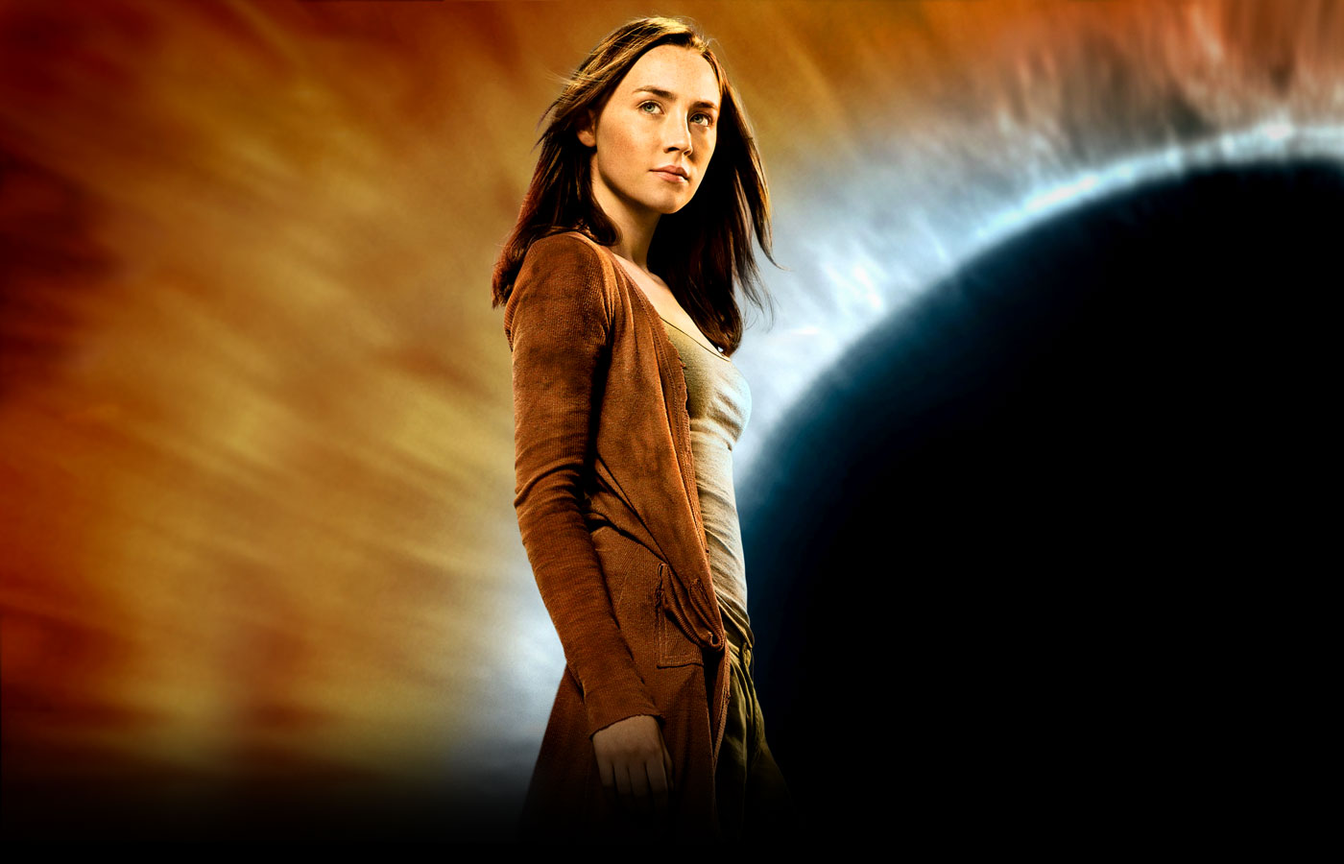
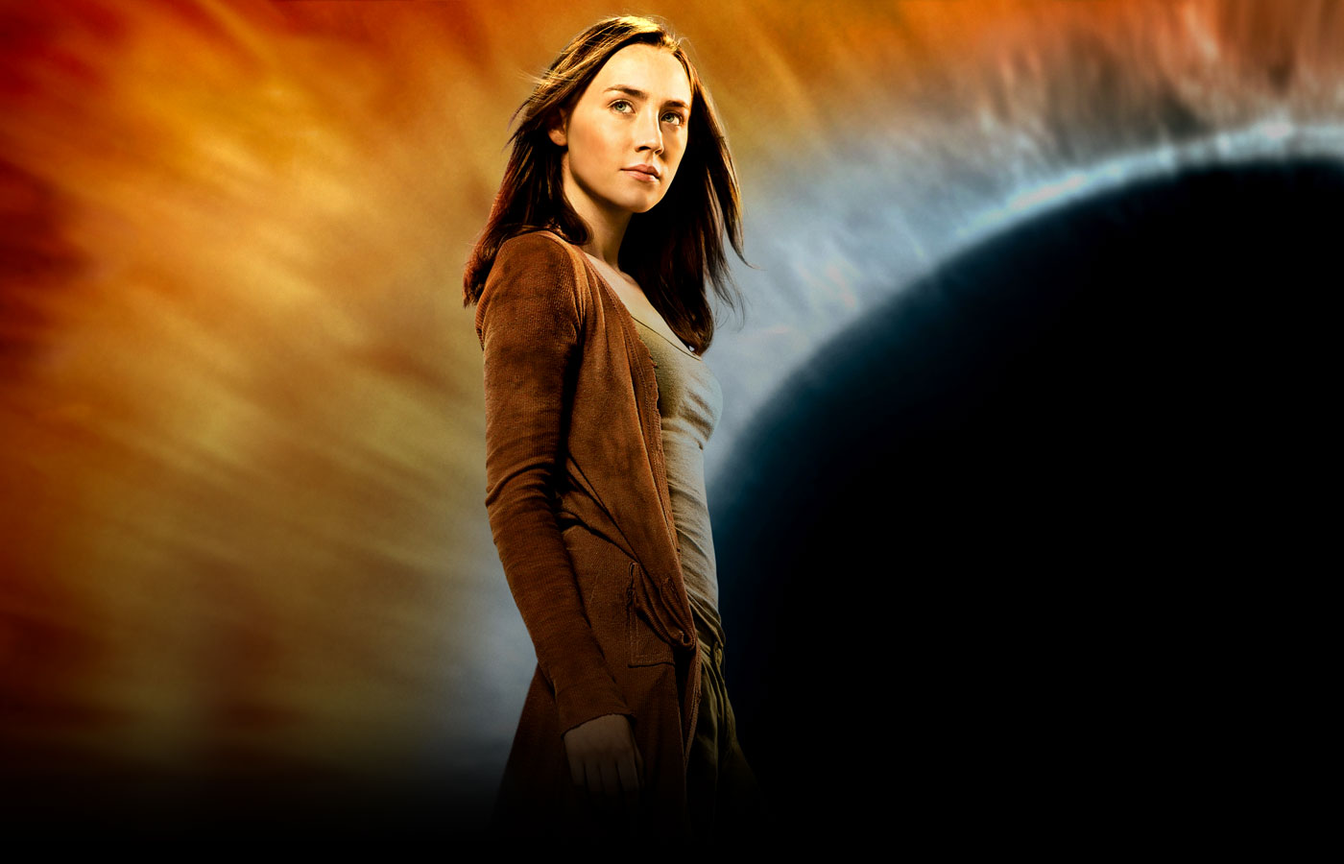
team - main, 01, crew

diff --git a/css/main.css b/css/main.css
@@ -53,40 +53,11 @@ a:hover {color: #d7ecfa; text-shadow: 0px -1px 8px #8be8ff;}
 
 
 
-/* Section-specific */
+/* Index */
 body#index {background-color: #000000;}
 body#index .menu {background-color: #1c323e;}
 body#index .footer {color: #5b6367; background-color: #000000; border-top: 1px solid #1b2021;}
 
-body#book {min-height: 850px; background-color: #834017; background-image: url('/images/bg_book.jpg'); background-position: center top; background-repeat: no-repeat; background-size: cover; background-attachment: fixed;}
-body#book .menu {background-color: #7a3900;}
-body#book .footer {color: #918a7e; background-color: #7a3900; border-top: 1px solid #85460e;}
-
-body#about {min-height: 900px; background-color: #1f0b04; background-image: url('/images/bg_about.jpg'); background-position: center top; background-repeat: no-repeat; background-size: cover; background-attachment: fixed;}
-body#about .menu {background-color: #2d1106;}
-body#about .footer {color: #66605a; background-color: #130700; border-top: 1px solid #27160c;}
-
-body#team {min-height: 840px; background-color: #000822; background-image: url('/images/bg_team.jpg'); background-position: left top; background-repeat: no-repeat; background-size: cover; background-attachment: fixed;}
-body#team .menu {background-color: #25314f;}
-body#team .footer {color: #4c536a; background-color: #000719; border-top: 1px solid #0c152e;}
-
-
-body#team01 {min-height: 840px; background-color: #000000; background-image: url('/images/bg_team01.jpg'); background-position: center top; background-repeat: no-repeat; background-size: cover; background-attachment: fixed;}
-body#team01 .menu {background-color: #5d1600;}
-body#team01 .footer {color: #4c5154; background-color: #000000; border-top: 1px solid #181f25;}
-
-
-body#video {background-color: #000000;}
-body#video .menu {background-color: #000000;}
-body#video .footer {color: #535e68; background-color: #000000; border-top: 1px solid #000000;}
-
-body#gallery {min-height: 850px; background-color: #581705; background-image: url('/images/bg_gallery.jpg'); background-position: right top; background-repeat: no-repeat; background-size: cover; background-attachment: fixed;}
-body#gallery .menu {background-color: #2a1400;}
-body#gallery .footer {color: #918a7e; background-color: #541c00; border-top: 1px solid #682d0f;}
-
-
-
-/* Index */
 .index_wrap {position: absolute; top: 0px; left: 0; width: 100%; min-width: 970px; height: 100%; min-height: 600px; overflow: hidden; z-index: 1; margin: 0 auto; text-align: center; background-image: url('/images/bg_index.jpg'); background-position: center top; background-repeat: no-repeat; background-size: contain;}
 
 .logo_big, .logo_big_glow {position: absolute; right: 100px; top: 6.5%; width: 50%; max-width: 800px; height: 600px; background-position: center top; background-repeat: no-repeat;}
@@ -99,7 +70,17 @@ body#gallery .footer {color: #918a7e; background-color: #541c00; border-top: 1px
 
 
 
+/* Book */
+body#book {min-height: 850px; background-color: #834017; background-image: url('/images/bg_book.jpg'); background-position: center top; background-repeat: no-repeat; background-size: cover; background-attachment: fixed;}
+body#book .menu {background-color: #7a3900;}
+body#book .footer {color: #918a7e; background-color: #7a3900; border-top: 1px solid #85460e;}
+
+
+
 /* About */
+body#about {min-height: 900px; background-color: #1f0b04; background-image: url('/images/bg_about.jpg'); background-position: center top; background-repeat: no-repeat; background-size: cover; background-attachment: fixed;}
+body#about .menu {background-color: #2d1106;}
+body#about .footer {color: #66605a; background-color: #130700; border-top: 1px solid #27160c;}
 body#about .logo_small {position: absolute; top: 0; right: 0;}
 
 .about {position: absolute; right: 0; top: 40px; width: 56%; min-width: 500px; z-index: 3; margin: 0 40px 20px 20px; padding: 160px 0 50px 0; color: #ffcb90; text-align: left; text-shadow: 0 1px 2px #3e1500;}
@@ -121,10 +102,14 @@ body#about .logo_small {position: absolute; top: 0; right: 0;}
 .about p i {display: inline-block; padding-left: 5px; padding-right: 5px; margin-right: 2px; font-weight: 300; font-style: normal; text-decoration: none; text-shadow: none;}
 .about p.dos i {line-height: 22px; color: #1f0b04; background-color: #e6c1a8;}
 .about p.tres i {line-height: 22px; color: #1f0b04; background-color: #deaf8f;}
+.about p.cuatro i {line-height: 24px; color: #1f0b04; background-color: #d9996e;}
 
 
 
 /* Team */
+body#team {min-height: 840px; background-color: #000822; background-image: url('/images/bg_team.jpg'); background-position: left top; background-repeat: no-repeat; background-size: cover; background-attachment: fixed;}
+body#team .menu {background-color: #25314f;}
+body#team .footer {color: #4c536a; background-color: #000719; border-top: 1px solid #0c152e;}
 body#team .logo_small {position: absolute; top: 40px; right: 40px; z-index: 8;}
 
 .team_main, .team_glow {position: absolute; top: 70px; left: 58%; width: 600px; height: 900px; margin-left: -300px;}
@@ -133,9 +118,7 @@ body#team .logo_small {position: absolute; top: 40px; right: 40px; z-index: 8;}
 
 a.team_link_01 {display: block; position: absolute; top: 230px; left: 210px; z-index: 8; width: 170px; height: 200px; text-decoration: none; }
 div.team_hover_01 {display: block; position: absolute; top: 195px; left: 172px; z-index: 7; width: 254px; height: 254px; background: url('/images/team_hover_01.png') center center no-repeat; opacity: 0; -moz-opacity: 0; -khtml-opacity: 0; filter: alpha(opacity=0);}
-
 a.team_link_02, a.team_link_03, a.team_link_04, a.team_link_05, a.team_link_06, a.team_link_07, a.team_link_08, a.team_link_09 {display: block; position: absolute; z-index: 8; text-decoration: none;}
-
 a.team_link_02 {top: 230px; left: 10px; width: 150px; height: 160px;}
 a.team_link_03 {top: 150px; left: 440px; width: 130px; height: 130px;}
 a.team_link_04 {top: 320px; left: 430px; width: 150px; height: 160px;}
@@ -146,7 +129,6 @@ a.team_link_08 {top: 590px; left: 20px; width: 150px; height: 160px;}
 a.team_link_09 {top: 650px; left: 240px; width: 130px; height: 160px;}
 
 .team_glow_02, .team_glow_03, .team_glow_04, .team_glow_05, .team_glow_06, .team_glow_07, .team_glow_08, .team_glow_09 {position: absolute; opacity: 0; -moz-opacity: 0; -khtml-opacity: 0; filter: alpha(opacity=0); background-position: center center; background-repeat: no-repeat;}
-
 .team_glow_02 {top: 207px; left: -1px; width: 182px; height: 182px; background-image: url('/images/team_glow_m.png');}
 .team_glow_03 {top: 136px; left: 436px; width: 144px; height: 144px; background-image: url('/images/team_glow_s.png');}
 .team_glow_04 {top: 297px; left: 415px; width: 182px; height: 182px; background-image: url('/images/team_glow_m.png');}
@@ -156,14 +138,90 @@ a.team_link_09 {top: 650px; left: 240px; width: 130px; height: 160px;}
 .team_glow_08 {top: 610px; left: 7px; width: 144px; height: 144px; background-image: url('/images/team_glow_s.png');}
 .team_glow_09 {top: 668px; left: 236px; width: 144px; height: 144px; background-image: url('/images/team_glow_s.png');}
 
+.team_showlist {display: inline-block; cursor: pointer; position: absolute; top: 78px; left: 40px; z-index: 9; font-size: 20px; font-weight: 300;}
+.team_person {position: absolute; top: 115px; left: 39px; font-size: 42px; line-height: 46px; font-weight: 400; text-shadow: 0 1px 1px #240a00;}
+.team_list {position: absolute; top: 65px; left: 25px; padding: 45px 20px 15px 15px; z-index: 8; font-size: 14px; line-height: 30px; background-color: #1e2f3e; border: 1px solid #a7c0cb; box-shadow: 0px 4px 10px rgba(0, 0, 0, 0.40); -moz-box-shadow: 0px 4px 10px rgba(0, 0, 0, 0.40); -webkit-box-shadow: 0px 4px 10px rgba(0, 0, 0, 0.40);}
+.team_list a {display: block;}
+.team_list a.active, .team_list a.active:hover {cursor: default; color: #ffe7c5; font-weight: 400; text-decoration: none; text-shadow: none;}
+
+
+
+/* Team01 */
+body#team01 {min-height: 840px; background-color: #000000; background-image: url('/images/bg_team01.jpg'); background-position: center top; background-repeat: no-repeat; background-size: cover; background-attachment: fixed;}
+body#team01 .menu {background-color: #5d1600;}
+body#team01 .footer {color: #4c5154; background-color: #000000; border-top: 1px solid #181f25;}
+body#team01 .logo_small {position: absolute; top: 40px; right: 40px; z-index: 8;}
+body#team01 .team_showlist {color: #ffcb7d; border-bottom: 1px dotted #ffcb7d;}
+body#team01 .team_showlist:hover {color: #ffdb9b; border-bottom: 1px dotted #ffdb9b;}
+body#team01 .team_person {color: #ffe7c5;}
+
+.team01_wrap {position: absolute; top: 300px; left: 0; width: 100%; min-width: 900px; font-size: 16px; line-height: 24px; text-shadow: 0px 1px 2px #261e17;}
+.team01_wrap p {padding-bottom: 10px;}
+.team01_wrap b {font-weight: 400;}
+.team01_wrap u {text-decoration: none; text-shadow: 0px 1px 8px #ff8f49;}
+
+.team01_content {padding: 0 40px 20px 40px;}
+
+.team01_melanie, .team01_wanda {width: 100px; height: 100px; margin: 0 auto 10px auto; background-image: url('/images/team01_bubble.png'); background-repeat: no-repeat;}
+.team01_melanie {background-position: 0 0;}
+.team01_wanda {background-position: 0 -100px;}
+
+.team01_lc h4, .team01_rc h4 {padding-bottom: 10px; font-size: 22px; font-weight: 400; text-align: center;}
+.team01_lc h4 {color: #ffc363;}
+.team01_rc h4 {color: #bee8ef;}
+
+.team01_lc {float: left; width: 48%; min-width: 440px; color: #ffe7b4;}
+.team01_rc {float: right; width: 48%; min-width: 440px; color: #c1e4f7;}
+.team01_mc {width: 60%; padding: 20px 0 80px 0; margin: 0 auto; clear: both; color: #e0e5e6;}
+
+.team01_video_wrap {width: 100%; clear: both;}
+.team01_video {width: 360px; margin: 10px auto 10px auto; text-align: center; background-color: pink;}
+
+
+
+/* Teamcrew */
+body#teamcrew {min-height: 840px; background-color: #2d0f09; background-image: url('/images/bg_teamcrew.jpg'); background-position: center top; background-repeat: no-repeat; background-size: cover; background-attachment: fixed;}
+body#teamcrew .menu {background-color: #9c4700;}
+body#teamcrew .footer {color: #824c36; background-color: #1c0800; border-top: 1px solid #341407;}
+body#teamcrew .logo_small {position: absolute; top: 40px; right: 40px; z-index: 8;}
+body#teamcrew .team_showlist {color: #ffcb7d; border-bottom: 1px dotted #ffcb7d;}
+body#teamcrew .team_showlist:hover {color: #ffdb9b; border-bottom: 1px dotted #ffdb9b;}
+body#teamcrew .team_person {color: #ffe7c5;}
+
+.teamcrew_wrap {position: absolute; top: 250px; left: 0; width: 100%; min-width: 900px; padding-bottom: 70px; font-size: 16px; line-height: 24px; text-shadow: 0px 1px 2px #261e17;}
+.teamcrew_wrap p {padding-bottom: 10px;}
+.teamcrew_wrap b {font-weight: 400;}
+.teamcrew_lc u {text-decoration: none; text-shadow: 0px 1px 8px #ff8f49;}
+.teamcrew_rc u {text-decoration: none; text-shadow: 0px 1px 8px #ff8f49;}
+
+.teamcrew_content {padding: 0 40px 20px 40px;}
+
+.teamcrew_niccol, .teamcrew_meyer {width: 180px; height: 180px; margin: 0 auto 10px auto; background-image: url('/images/teamcrew_bubble.png'); background-repeat: no-repeat;}
+.teamcrew_niccol {background-position: 0 0;}
+.teamcrew_meyer {background-position: 0 -180px;}
+
+.teamcrew_lc h4, .teamcrew_rc h4 {padding-bottom: 10px; font-size: 22px; font-weight: 400; text-align: center;}
+.teamcrew_lc h4 {color: #ffbf7b;}
+.teamcrew_rc h4 {color: #ffce99;}
+
+.teamcrew_lc {float: left; width: 48%; min-width: 440px; color: #f6dba1;}
+.teamcrew_rc {float: right; width: 48%; min-width: 440px; color: #ffeeca;}
+
+
 
 
 /* Video */
+body#video {background-color: #000000;}
+body#video .menu {background-color: #000000;}
+body#video .footer {color: #535e68; background-color: #000000; border-top: 1px solid #000000;}
 .trailer_wrap {position: absolute; top: 64px; width: 100%; height: 88%; margin: 0 auto 0 auto; z-index: 2; text-align: center;}
 
 
 
 /* Gallery */
+body#gallery {min-height: 850px; background-color: #581705; background-image: url('/images/bg_gallery.jpg'); background-position: right top; background-repeat: no-repeat; background-size: cover; background-attachment: fixed;}
+body#gallery .menu {background-color: #2a1400;}
+body#gallery .footer {color: #918a7e; background-color: #541c00; border-top: 1px solid #682d0f;}
 body#gallery .logo_small {position: absolute; top: 0; left: 20%;}
 
 .gallery {position: absolute; left: 0; top: 40px; width: 62%; min-width: 500px; z-index: 3; margin: 0 40px 10px 10px; padding: 180px 0 70px 20px; color: #ffcb90; text-align: left; text-shadow: 0 1px 2px #3e1500;}

diff --git a/teamcrew.php b/teamcrew.php
@@ -1,0 +1,87 @@
+<?php include ("header_include.php"); ?>
+
+<!-- Team nav -->
+<script type="text/javascript">
+$(document).ready(function(){
+$(".team_showlist").toggle(
+  function () {$('.team_list').fadeIn(); $('.team_person').fadeOut();},
+  function () {$('.team_list').fadeOut(); $('.team_person').fadeIn();}
+  );
+});
+</script>
+
+</head><body id="teamcrew">
+
+<noscript><style>.dim {display: none;} #counters:hover {bottom: 0;}</style><div style="position: fixed; bottom: 80px; left: 50%; width: 360px; z-index: 9999; margin-left: -180px; font-size: 14px; color: #849091; line-height: 20px; text-align: center; border: 1px solid #849091; background-color: #000000;">В вашем браузере отключен JavaScript</div></noscript>
+<div class="dim">&nbsp;</div>
+
+
+
+<div class="menu noselect">
+	<a id="menu1" class="fadeout" href="/">Главная</a>
+	<a id="menu2" class="fadeout off" href="javascript:void(0)">Новости</a>
+	<a id="menu3" class="fadeout off" href="javascript:void(0)">Книга</a>
+	<a id="menu4" class="fadeout" href="/about/">Фильм</a>
+	<a id="menu5" class="fadeout active" href="/team/" style="cursor: pointer;">Команда</a>
+	<a id="menu6" class="fadeout" href="/video/">Видео</a>
+	<a id="menu7" class="fadeout" href="/gallery/">Кадры</a>
+</div>
+
+
+<div class="logo_small noselect">&nbsp;</div>
+
+
+<div class="team_showlist">Команда</div>
+<div class="team_person">Эндрю Никкол<br>Стефани Майер</div>
+
+<div class="team_list" style="display: none;">
+	<a href="/team01/" class="fadeout">Сирша Ронан</a>
+	<a href="/team02/" class="fadeout">Макс Айронс</a>
+	<a href="/team03/" class="fadeout">Диана Крюгер</a>
+	<a href="/team04/" class="fadeout">Джейк Абель</a>
+	<a href="/team05/" class="fadeout">Чандлер Кентербери</a>
+	<a href="/team06/" class="fadeout">Уильям Хёрт</a>
+	<a href="/team07/" class="fadeout">Фрэнсис Фишер</a>
+	<a href="/teamcrew/" class="fadeout active">Эндрю Никкол</a>
+	<a href="/teamcrew/" class="fadeout active">Стефани Майер</a>
+</div>
+
+
+<div class="teamcrew_wrap clearfix">
+	<div class="teamcrew_lc">
+		<div class="teamcrew_content">
+		<div class="teamcrew_niccol noselect">&nbsp;</div>
+		<h4>Режиссёр и сценарист</h4>
+		<p><b>Эндрю Никкол</b> – известный сценарист и режиссёр, из-под пера которого неизменно выходят умные, интересные, разнообразные, необычные фантастические картины.</p>
+		<p>Первыми режиссёрскими опытами для Эндрю были съёмки рекламных роликов в Лондоне, но в итоге он захотел «снимать фильмы длиннее шестидесяти секунд» и перебрался в Лос-Анджелес. И уже своим дебютом, антиутопией <u>«Гаттака»</u> с Джадом Лоу, Итанам Хоуком и Умой Турман, Эндрю вывел себя в ряды самых многообещающих новых режиссёров конца XX и начала XXI века. Ну а последовавшие за ней <u>«Шоу Трумана»</u> с Джимом Керри (номинировавшийся на «Оскар» за лучший сценарий), <u>«Симона»</u> с Аль Пачино, <u>«Оружейный барон»</u> с Николасом Кейджем и <u>«Время»</u> с Джастином Тимберлейком лишь утвердили за ним это звание.</p>
+		<p><u>«Гостья»</u> – первый случай в карьере Никкола, когда он не пишет сценарий с нуля, а адаптирует уже имеющееся произведение.</p>
+		</div>
+	</div>
+	<div class="teamcrew_rc">
+		<div class="teamcrew_content">
+		<div class="teamcrew_meyer noselect">&nbsp;</div>
+		<h4>Автор первоисточника</h4>
+		<p>Одна из самых успешных женщин-писательниц, <b>Стефани Майер</b> мгновенно прославилась благодаря своему фантастическому любовному роману <u>«Сумерки»</u>, значительно увеличила свою популярность с выходом трёх сиквелов к этой книге и превратилась в самую настоящую звезду, когда невероятного успеха добились экранизации её романов, получившие общий заголовок <u>«Сумерки. Сага»</u>.</p>
+		<p>Этот её цикл породил самый настоящий бум и в литературе, и в кинематографе, открыв всему миру глаза на огромную женскую аудиторию, жаждавшую ориентированных на них блокбастеров.</p>
+		<p>Стефани не планирует останавливаться на достигнутом. Не прошло и года после окончания «сумеречного» цикла, как она выпустила книгу <u>«Гостья»</u> – роман заметно более мрачный и направленный на аудиторию постарше. А в дальнейших планах Майер числятся как сиквелы <u>«Гостьи»</u>, так и романы о привидениях, русалках и путешествиях во времени.</p>
+	</div>
+</div>
+
+
+
+<div class="age_small noselect">&nbsp;</div>
+
+<div class="footer noselect"><div class="copy">&copy; 2013 &laquo;<a class="fadeout" href="http://www.westvideo.ru/">Вест Видео</a>&raquo; &nbsp;&nbsp; Создание сайта: <a class="fadeout" href="http://www.kg-design.ru/">КГ-Дизайн</a></div></div>
+
+<div id="counters"><div class="counters_list"><p><?php include ("counters_include.php"); ?></p></div></div>
+
+
+<!-- Index: background-size fix for IE8 -->
+<!--[if lt IE 9]><script src="/js/jquery.backgroundSize.js" type="text/javascript"></script><![endif]-->
+<script type="text/javascript">
+$(function() {
+$("body").css({backgroundSize: "cover"});
+});
+</script>
+
+</body></html>

diff --git a/team01.php b/team01.php
@@ -1,5 +1,15 @@
 <?php include ("header_include.php"); ?>
 
+<!-- Team nav -->
+<script type="text/javascript">
+$(document).ready(function(){
+$(".team_showlist").toggle(
+  function () {$('.team_list').fadeIn(); $('.team_person').fadeOut();},
+  function () {$('.team_list').fadeOut(); $('.team_person').fadeIn();}
+  );
+});
+</script>
+
 <link href="/css/video-js.css" rel="stylesheet">
 <script type="text/javascript" src="/js/video.js"></script>
 <style type="text/css">
@@ -32,35 +42,55 @@
 	<a id="menu2" class="fadeout off" href="javascript:void(0)">Новости</a>
 	<a id="menu3" class="fadeout off" href="javascript:void(0)">Книга</a>
 	<a id="menu4" class="fadeout" href="/about/">Фильм</a>
-	<a id="menu5" class="fadeout active" href="/team/">Команда</a>
+	<a id="menu5" class="fadeout active" href="/team/" style="cursor: pointer;">Команда</a>
 	<a id="menu6" class="fadeout" href="/video/">Видео</a>
 	<a id="menu7" class="fadeout" href="/gallery/">Кадры</a>
 </div>
 
 
-
-<style type="text/css">
-
-body#team01 .logo_small {position: absolute; top: 40px; right: 40px; z-index: 8;}
-
-.team_breadcrumbs {position: absolute; top: 77px; left: 40px; line-height: 34px;}
-.team_breadcrumbs a {font-size: 20px; font-weight: 300;}
-.team_breadcrumbs b {display: block; font-size: 42px; font-weight: 400;}
-
-body#team01 .team_breadcrumbs {color: #ede2cb; text-shadow: 0 1px 1px #321700;}
-body#team01 .team_breadcrumbs a, body#team01 .team_breadcrumbs a:visited {color: #ffcb7d;}
-body#team01 .team_breadcrumbs a:hover {color: #ffb74b;}
-
-.superwrap {width: 400px; height: 167px; margin: 0 auto 0 auto; text-align: center;}
-</style>
-
-
 <div class="logo_small noselect">&nbsp;</div>
 
-<div class="team_breadcrumbs"><a href="/team/" class="fadeout">Команда</a><b>Сирша Ронан</b></div>
+<div class="team_showlist">Команда</div>
+<div class="team_person">Сирша Ронан</div>
+
+<div class="team_list" style="display: none;">
+	<a href="/team01/" class="fadeout active">Сирша Ронан</a>
+	<a href="/team02/" class="fadeout">Макс Айронс</a>
+	<a href="/team03/" class="fadeout">Диана Крюгер</a>
+	<a href="/team04/" class="fadeout">Джейк Абель</a>
+	<a href="/team05/" class="fadeout">Чандлер Кентербери</a>
+	<a href="/team06/" class="fadeout">Уильям Хёрт</a>
+	<a href="/team07/" class="fadeout">Фрэнсис Фишер</a>
+	<a href="/teamcrew/" class="fadeout">Эндрю Никкол</a>
+	<a href="/teamcrew/" class="fadeout">Стефани Майер</a>
+</div>
 
 
 
+<div class="team01_wrap clearfix">
+	<div class="team01_lc">
+		<div class="team01_content">
+		<div class="team01_melanie noselect">&nbsp;</div>
+		<h4>...В роли Мелани Страйдер</h4>
+		<p><b>Мелани</b> – сильная, храбрая, решительная девушка. Когда человечество атакует незримый враг, Мелани рискует всем, чтобы защитить своих близких: Джареда, её брата Джейми и дядю Джеба. Она никогда не сдаётся без боя, и её любовь к Джареду позволила Мелани сохранить самосознание и волю даже тогда, когда в её тело поселилась Душа – Анни.</p>
+		</div>
+	</div>
+	<div class="team01_rc">
+		<div class="team01_content">
+		<div class="team01_wanda noselect">&nbsp;</div>
+		<h4>...В роли Анни (Странницы)</h4>
+		<p><b>Анни</b> – Душа, не похожая на остальные. Её опыт и мудрость помогают Страннице найти общий язык с Мелани и понять, что значит быть человеком. А сблизившись с членами повстанческого движения, Анни неожиданно открывает для себя сильнейшую из человеческих эмоций – любовь.</p>
+		</div>
+	</div>
+	<div class="team01_video_wrap clearfix">
+		<div class="team01_lc"><div class="team01_video"><div style="width: 360px; height: 206px; border: 1px solid #ffab67;"><video id="melaniestryder" class="video-js vjs-default-skin" controls preload="auto" width="360" height="206" poster="/video/melaniestryder.jpg" data-setup="{}"><source src="http://www.hostmovie.ru/video/melaniestryder.mp4" type='video/mp4'></div></div></div>
+		<div class="team01_rc"><div class="team01_video"><div style="width: 360px; height: 206px; border: 1px solid #bee8ef;"><video id="wandererwanda" class="video-js vjs-default-skin" controls preload="auto" width="360" height="206" poster="/video/wandererwanda.jpg" data-setup="{}"><source src="http://www.hostmovie.ru/video/wandererwanda.mp4" type='video/mp4'></div></div></div>
+	</div>
+	<div class="team01_mc">
+		<p>Несмотря на свой юный возраст (ей нет и девятнадцати), рождённая в семье ирландских актёров <b>Сирша Ронан</b> успешно работает в кино уже больше десяти лет. Первая же крупная роль в фильме <u>«Искупление»</u> Джо Райта принесла тринадцатилетней девушке номинацию на «Оскар», и с тех пор она успела сняться в таких крупных фильмах, как <u>«Город Эмбер: Побег»</u>, <u>«Ханна. Совершенное оружие»</u> и <u>«Милые кости»</u>.</p>
+		<p>Сейчас она снимается с Биллом Мюрреем в фильме Веса Андерсона <u>«Отель Будапешт»</u>, а вскоре после «Гостьи» на экраны выйдет драма о вампирах Нила Джордана <u>«Византия»</u> с Сиршей в одной из главных ролей.</p>
+	</div>
+</div>
 
 
 

diff --git a/about.php b/about.php
@@ -38,8 +38,8 @@ $(document).ready(function(){
 	<div class="slogan_wrap">Битва&nbsp;за<br><span class="slogan" style="display: none;">свободу</span><span class="slogan slogan_noscript" style="display: none;">будущее</span><span class="slogan" style="display: none;">любовь</span>&nbsp;</div>
 	<p class="uno"><b>«Гостья»</b> – экранизация одноимённой книги <b>Стефани Майер</b> – той самой, что своим циклом <b>«Сумерки»</b> в одиночку начала бум литературы и кинематографа, нацеленных на девушек. Но если культовая сага перевернула представление женского населения Земли о городском фэнтези, то своим новым романом (и его двумя потенциальными сиквелами) Стефани нацелилась на фантастику.</p>
 	<p class="dos">На Земле будущего человечеству в его привычном виде практически не осталось места. Инопланетяне-паразиты, <i>Души</i>, наводнили планету, проникая в тела живущих на ней людей и заменяя собой оригинальные личности. Очень скоро люди становятся вымирающим видом и из последних сил отбиваются от наслаждающихся завоёванной планетой <i>Душ</i>.</p>
-	<p class="tres">Главная героиня <b>«Гостьи»</b> — <u>Мелани</u> — одна из немногих выживших. Она встречает Джареда Хоу, они влюбляются друг в друга, и даже жестокий окружающий мир, кажется, не может помешать их счастью... Пока девушку не ловят и не поселяют в её тело <i>Душу</i> по имени Ванда, надеясь через воспоминания <u>Мелани</u> узнать местонахождение прибежища людей.</p>
-	<p class="cuatro">Вот только на этот раз результат подселения оказывается неожиданным: <u>Мелани</u> не исчезает до конца, и теперь они с Вандой вынуждены сосуществовать в одном теле, деля мысли, воспоминания... и, конечно же, чувства. Чувства, которые убеждают Ванду предать свою расу и вместо этого помочь ненавидящим её людям.</p>
+	<p class="tres">Главная героиня <b>«Гостьи»</b> — <u>Мелани</u> — одна из немногих выживших. Она встречает Джареда Хоу, они влюбляются друг в друга, и даже жестокий окружающий мир, кажется, не может помешать их счастью... Пока девушку не ловят и не поселяют в её тело Душу по имени <i>Анни</i>, надеясь через воспоминания <u>Мелани</u> узнать местонахождение прибежища людей.</p>
+	<p class="cuatro">Вот только на этот раз результат подселения оказывается неожиданным: <u>Мелани</u> не исчезает до конца, и теперь они с <i>Анни</i> вынуждены сосуществовать в одном теле, деля мысли, воспоминания... и, конечно же, чувства. Чувства, которые убеждают <i>Анни</i> предать свою расу и вместо этого помочь ненавидящим её людям.</p>
 </div>
 
 
